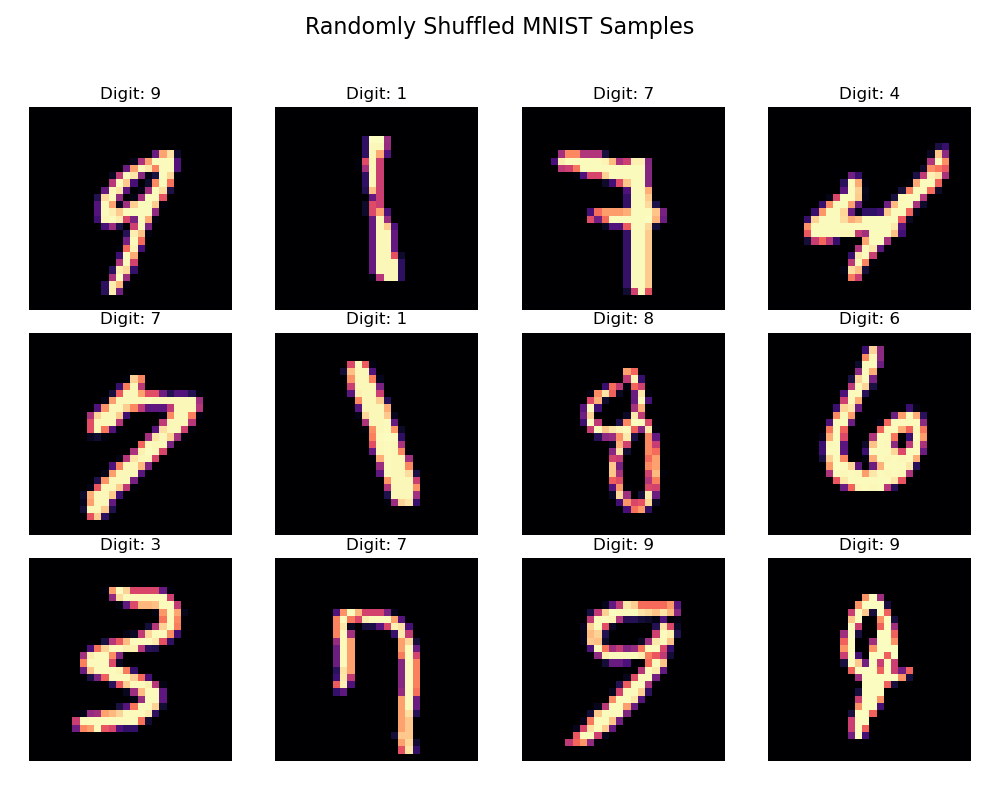
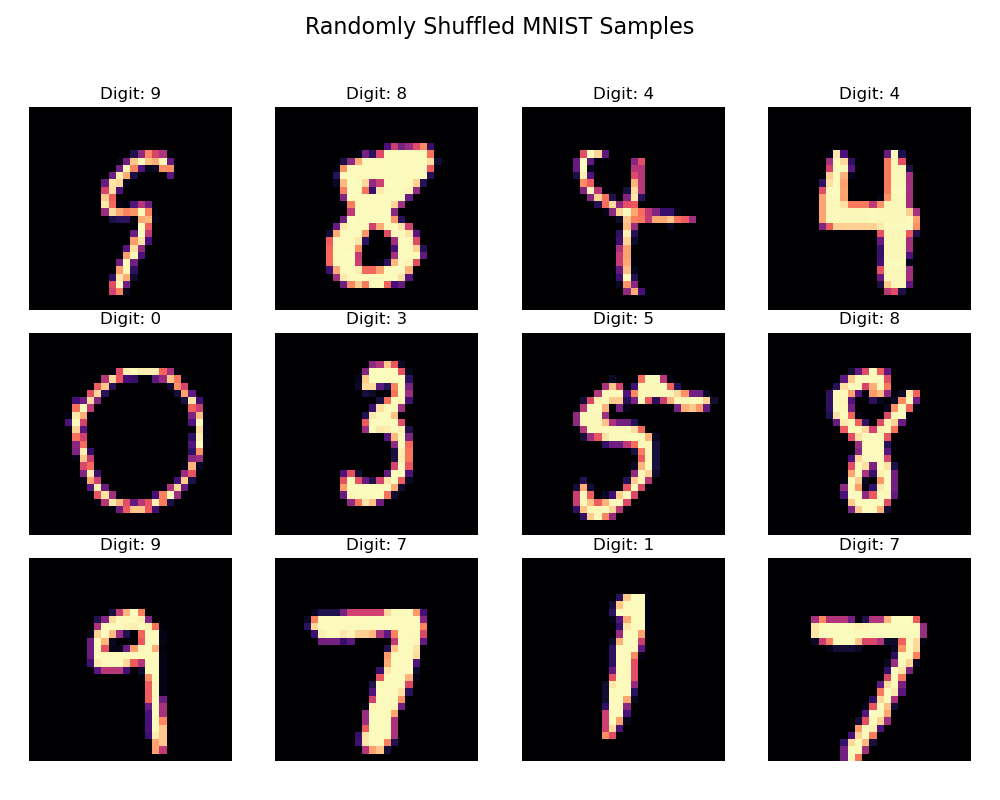
minor fixes to allow functionality with full MNIST dataset and changes for consistency to concrete example; add gitignore

diff --git a/Assignment-2/examples/main_concrete.cpp b/Assignment-2/examples/main_concrete.cpp
@@ -12,6 +12,8 @@
 using sklearn_cpp::linear_model::LinearRegression;
 using sklearn_cpp::utils::StandardScaler;
 
+// Compile with: g++ -O3 -I ../include main_concrete.cpp -o main_concrete && ./main_concrete
+
 // ============================================================
 // Utility functions (unchanged)
 // ============================================================
@@ -252,7 +254,7 @@ int main() {
         auto predM1  = modelM1.predict(xTestM1);
         double mseM1 = calculateMSE(yTest, predM1);
         double maeM1 = calculateMAE(yTest, predM1);
-        double r2M1  = sklearn_cpp::utils::r2Score(yTest, predM1);
+        double r2M1  = R_squared(yTest, predM1);
 
         std::cout << "Bias:  " << std::fixed << std::setprecision(4) << modelM1.getBias() << std::endl;
         std::cout << "MSE:   " << mseM1 << std::endl;
@@ -280,7 +282,7 @@ int main() {
         auto predM2  = modelM2.predict(xTestM2);
         double mseM2 = calculateMSE(yTest, predM2);
         double maeM2 = calculateMAE(yTest, predM2);
-        double r2M2  = sklearn_cpp::utils::r2Score(yTest, predM2);
+        double r2M2  = R_squared(yTest, predM2);
 
         std::cout << "Bias:  " << std::fixed << std::setprecision(4) << modelM2.getBias() << std::endl;
         std::cout << "MSE:   " << mseM2 << std::endl;
@@ -335,7 +337,7 @@ int main() {
         auto predM3  = modelM3.predict(xTestM3);
         double mseM3 = calculateMSE(yTest, predM3);
         double maeM3 = calculateMAE(yTest, predM3);
-        double r2M3  = sklearn_cpp::utils::r2Score(yTest, predM3);
+        double r2M3  = R_squared(yTest, predM3);
 
         std::cout << "Bias:  " << std::fixed << std::setprecision(4) << modelM3.getBias() << std::endl;
         std::cout << "MSE:   " << mseM3 << std::endl;

diff --git a/Assignment-2/examples/main_mnist.cpp b/Assignment-2/examples/main_mnist.cpp
@@ -9,7 +9,7 @@ int main() {
     std::cout << "Training the model..." << std::endl; // Print a message indicating that training is starting
     model.fit(); // Train the model using the training data
     std::cout << "Making predictions..." << std::endl; // Print a message indicating that predictions are being made
-    Dataset MNISTTestData("data/mnist_mini.csv"); // Load the test dataset
+    Dataset MNISTTestData("data/mnist_full.csv"); // Load the test dataset
     std::vector<double> predictions = model.predict(MNISTTestData); // Get predictions on the test data
     Dataset testData = model.getTestData(); // Retrieve the test dataset
     std::vector<double> trueLabels = testData.getData(); // Get the true labels from the test dataset
